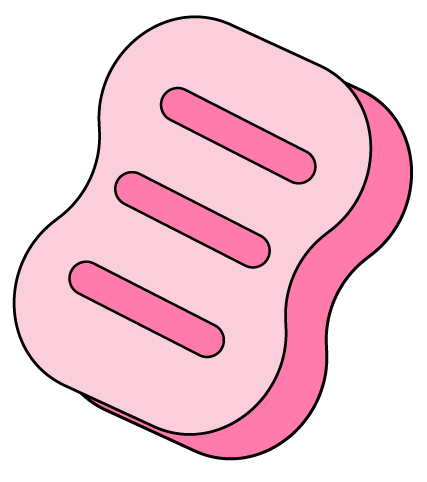
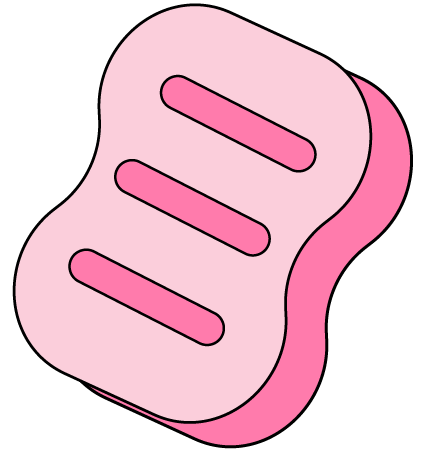
test on ipad

diff --git a/components/scene/Bath/02test.vue b/components/scene/Bath/02test.vue
@@ -64,6 +64,20 @@
             <img :src="images['bath-02-fakbua.png']">
         </div>
 
+        <!-- temp -->
+        <div class="absolute bottom-[6%] left-[22.5%] w-[56.7%] h-[7.5%] z-[20]">
+            <input
+                @touchstart="stopSponge"
+                @touchend="startSponge"
+                type="range"
+                :min="sliderMin"
+                :max="sliderMax"
+                :step="sliderStep"
+                v-model="slide"
+                class="slider"
+                :style="sliderStyle"
+            />
+        </div>
 
 
     </GeneralContainer>
@@ -127,6 +141,20 @@ function stopDrag() {
     document.removeEventListener('touchend', stopDrag);
 }
 
+//slider
+const slide = ref(0);
+
+const sliderMin = ref(0);
+const sliderMax = ref(100);
+const sliderStep = ref(1);
+
+const sliderStyle = computed(() => {
+    const percentage = ((slide.value - sliderMin.value) / (sliderMax.value - sliderMin.value)) * 100;
+    return {
+        background: `linear-gradient(to right, #fbcedb ${percentage}%, #eb5d50 ${percentage}%)`,
+    };
+});
+
 </script>
 
 <style scoped>
@@ -161,6 +189,42 @@ function stopDrag() {
 .girl {
     animation: girl alternate infinite 0.5s ease-in-out;
     transform-origin: bottom;
+}
+
+.slider {
+    -webkit-appearance: none;
+    appearance: none;
+    width: 100%;
+    height: 100%;
+    outline: none;
+    transition: background 0.3s ease;
+    border: 1px solid black;
+    box-shadow: 0 0 0 5% black;
+
+    @apply rounded-full
+}
+
+.slider::-webkit-slider-thumb {
+    -webkit-appearance: none;
+    appearance: none;
+    width: 17%;
+    height: auto;
+    background-image: url(/images/bath-02/sponge.png);
+    background-size: contain;
+    background-repeat: no-repeat;
+    aspect-ratio: 80 / 50;
+    cursor: pointer;
+    transition: background 0.3s ease;
+}
+
+.slider::-moz-range-thumb {
+    width: 17%;
+    height: auto;
+    background-image: url(/images/bath-02/letter-sponge.png);
+    background-size: contain;
+    background-repeat: no-repeat;
+    aspect-ratio: 80 / 60;
+    cursor: pointer;
 }
 
 </style>
